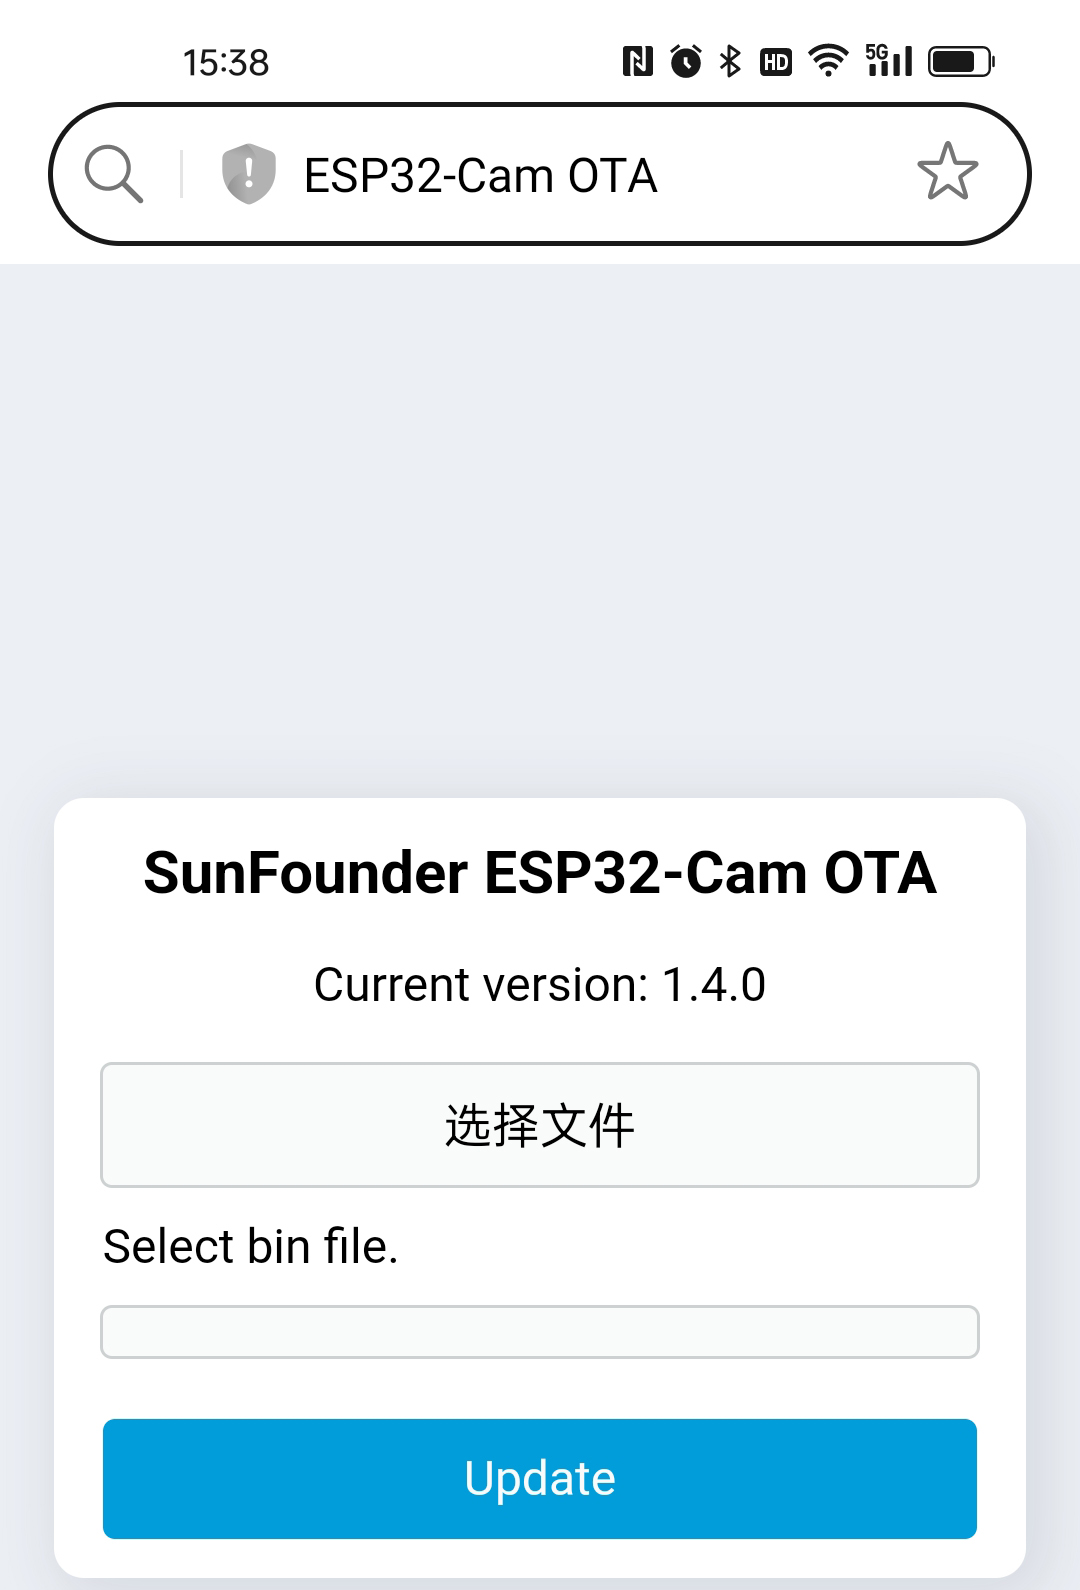
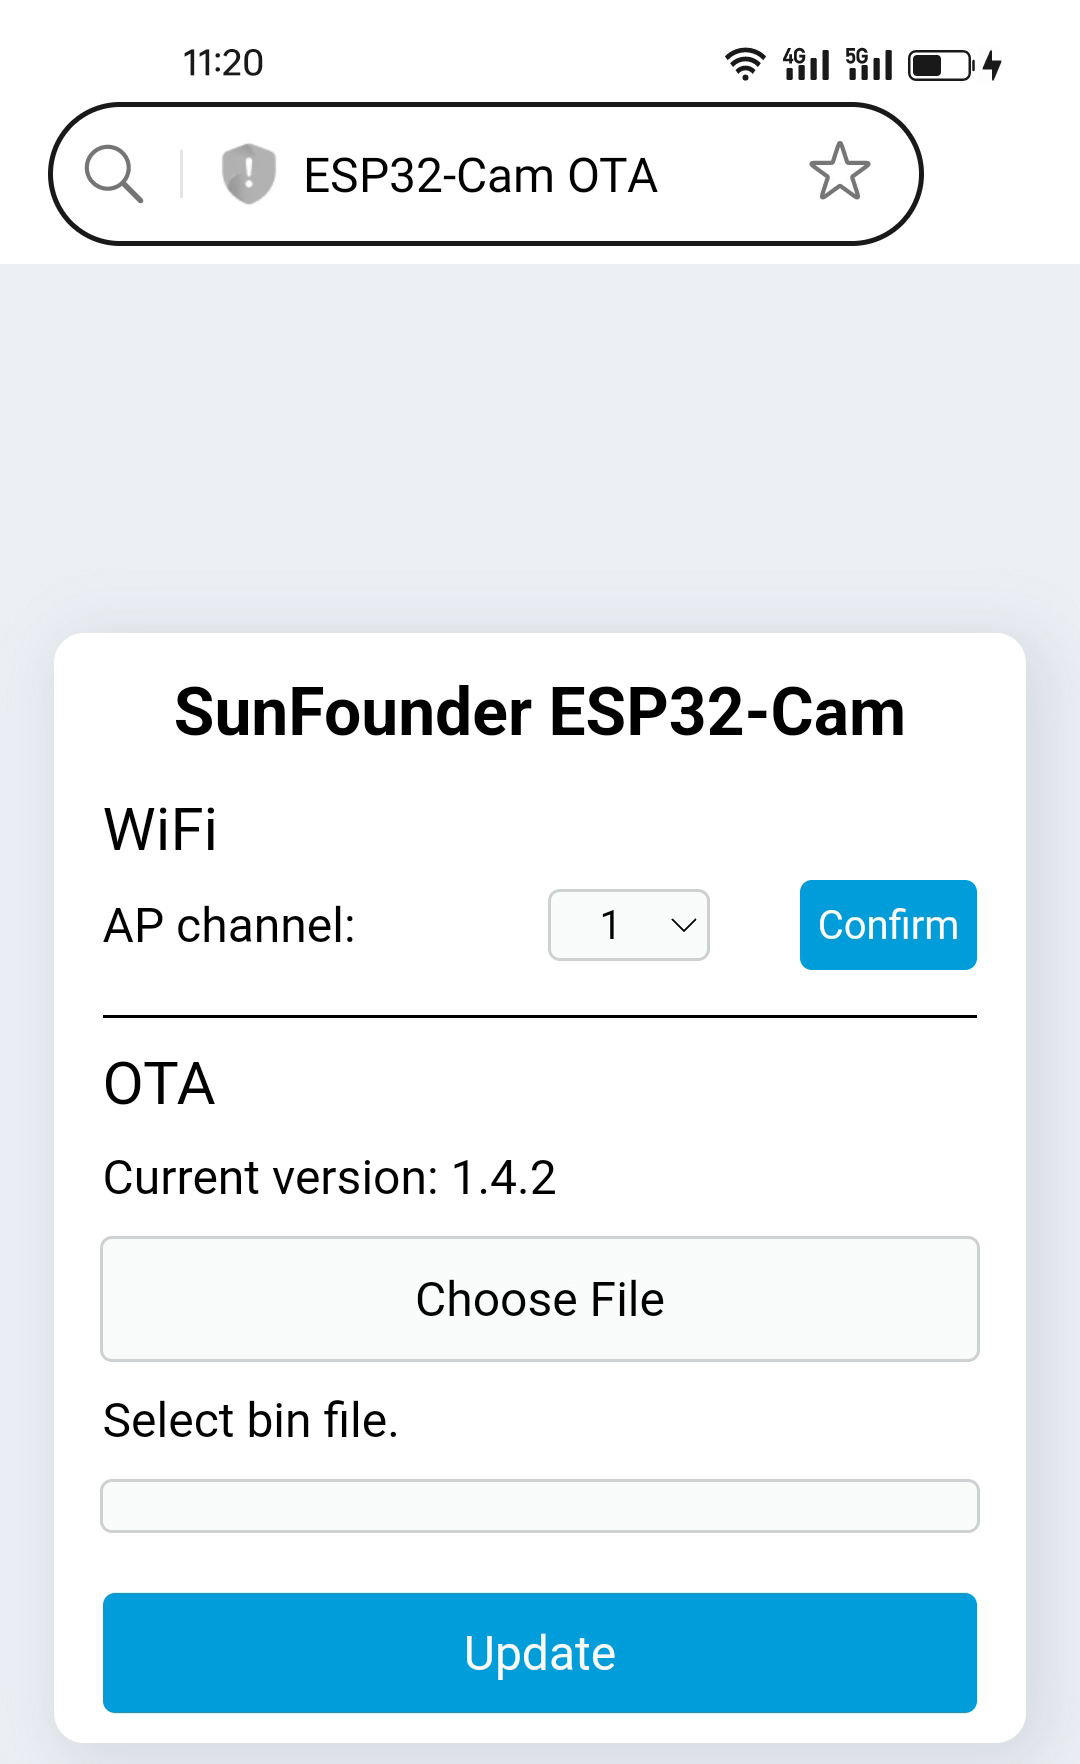
docs: update firmware version to 1.4.2 in FAQ and replace images
Update documentation to reflect new firmware version 1.4.2 for ESP32 CAM.
Replace outdated images and remove unused screenshot files.

diff --git a/docs/source/faq.rst b/docs/source/faq.rst
@@ -22,25 +22,25 @@ La banda Wi-Fi a 2,4GHz dispone di canali che vanno da 1 a 13. ESP32 supporta i 
 
 .. note::
 
-   È necessaria la versione 1.4.1 o superiore del firmware ESP32 CAM per cambiare canale. Consulta :ref:`update_firmware` per ulteriori dettagli.
+   È necessaria la versione 1.4.2 o superiore del firmware ESP32 CAM per cambiare canale. Consulta :ref:`update_firmware` per ulteriori dettagli.
 
 #. Accendi il GalaxyRVR. Per attivare l'ESP32 CAM, sposta l'interruttore di modalità sulla posizione **Run** e premi il pulsante **reset** per riavviare la scheda R3.
 
-     .. raw:: html
+   .. raw:: html
 
-        <video width="600" loop autoplay muted>
-            <source src="_static/video/play_reset.mp4" type="video/mp4">
-            Your browser does not support the video tag.
-        </video>
+      <video width="600" loop autoplay muted>
+          <source src="_static/video/play_reset.mp4" type="video/mp4">
+          Your browser does not support the video tag.
+      </video>
 
 #. Trova ``GalaxyRVR`` nell'elenco delle reti disponibili sul tuo dispositivo mobile (tablet o smartphone), inserisci la password ``12345678`` e connettiti.
 
-     .. note::
+   .. note::
 
-        * La connessione attuale è all'hotspot GalaxyRVR, quindi non c'è accesso a Internet. Se richiesto di cambiare rete, scegli "Rimani connesso".
+      * La connessione attuale è all'hotspot GalaxyRVR, quindi non c'è accesso a Internet. Se richiesto di cambiare rete, scegli "Rimani connesso".
 
-     .. image:: img/app/camera_lan.png
-        :width: 500
+   .. image:: img/app/camera_lan.png
+      :width: 500
 
 #. Apri un browser web sul tuo dispositivo mobile e vai su ``http://192.168.4.1`` per accedere alla pagina di aggiornamento OTA di ESP32 CAM.
 
@@ -73,25 +73,25 @@ Segui questi passaggi dettagliati per aggiornare il firmware del tuo ESP32 CAM:
 
 #. Accendi il GalaxyRVR. Per attivare l'ESP32 CAM, sposta l'interruttore di modalità sulla posizione **Run** e premi il pulsante **reset** per riavviare la scheda R3.
 
-     .. raw:: html
+   .. raw:: html
 
-        <video width="600" loop autoplay muted>
-            <source src="_static/video/play_reset.mp4" type="video/mp4">
-            Your browser does not support the video tag.
-        </video>
+      <video width="600" loop autoplay muted>
+          <source src="_static/video/play_reset.mp4" type="video/mp4">
+          Your browser does not support the video tag.
+      </video>
 
 #. Trova ``GalaxyRVR`` nell'elenco delle reti disponibili sul tuo dispositivo mobile (tablet o smartphone), inserisci la password ``12345678`` e connettiti.
 
-     .. note::
+   .. note::
 
-        * La connessione attuale è all'hotspot GalaxyRVR, quindi non c'è accesso a Internet. Se richiesto di cambiare rete, scegli "Rimani connesso".
+      * La connessione attuale è all'hotspot GalaxyRVR, quindi non c'è accesso a Internet. Se richiesto di cambiare rete, scegli "Rimani connesso".
 
-     .. image:: img/app/camera_lan.png
-        :width: 500
+   .. image:: img/app/camera_lan.png
+      :width: 500
 
-#. Fai clic sul link sottostante per scaricare il file del firmware ``ai-camera-firmware-v1.4.1-ota.bin`` e salvalo sul tuo dispositivo mobile.
+#. Fai clic sul link sottostante per scaricare il file del firmware ``ai-camera-firmware-v1.4.2-ota.bin`` e salvalo sul tuo dispositivo mobile.
 
-   * :download:`File del firmware di ESP32 CAM <https://github.com/sunfounder/ai-camera-firmware/releases/download/1.4.1/ai-camera-firmware-v1.4.1-ota.bin>`
+   * :download:`ESP32 CAM Firmware <https://github.com/sunfounder/ai-camera-firmware/releases/download/1.4.2/ai-camera-firmware-v1.4.2-ota.bin>`
 
 #. Apri un browser web sul tuo dispositivo mobile e vai su ``http://192.168.4.1`` per accedere alla pagina di aggiornamento OTA di ESP32 CAM.
 
@@ -103,7 +103,7 @@ Segui questi passaggi dettagliati per aggiornare il firmware del tuo ESP32 CAM:
    .. image:: img/faq_cam_ota_choose.png
       :width: 400
 
-#. Scegli il file ``ai-camera-firmware-v1.4.1-ota.bin`` precedentemente scaricato dal tuo dispositivo e fai clic su **OK**.
+#. Scegli il file ``ai-camera-firmware-v1.4.2-ota.bin`` precedentemente scaricato dal tuo dispositivo e fai clic su **OK**.
 
    .. image:: img/faq_cam_ota_file.png
       :width: 400
@@ -113,7 +113,7 @@ Segui questi passaggi dettagliati per aggiornare il firmware del tuo ESP32 CAM:
    .. image:: img/faq_cam_ota_update.png
       :width: 400
    
-#. Attendi il completamento dell'aggiornamento. Una volta che il numero di versione visualizzato passa a ``1.4.1``, l'aggiornamento è stato completato con successo.
+#. Attendi il completamento dell'aggiornamento. Una volta che il numero di versione visualizzato passa a ``1.4.2``, l'aggiornamento è stato completato con successo.
 
    .. image:: img/faq_cam_ota_finish.png
       :width: 400
